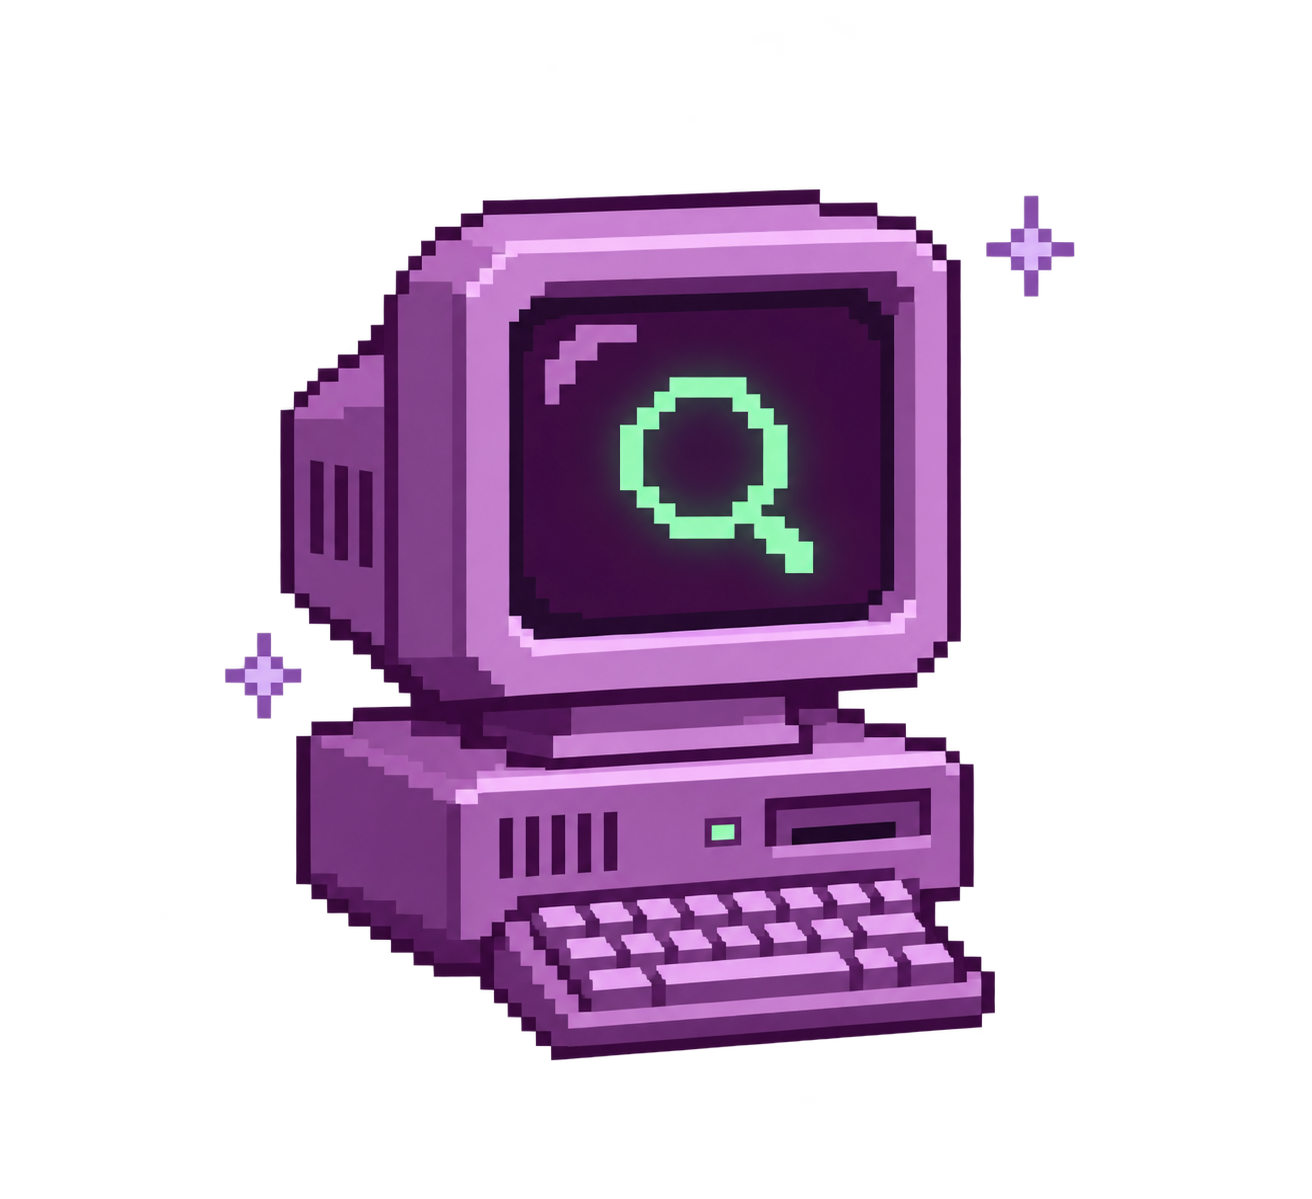
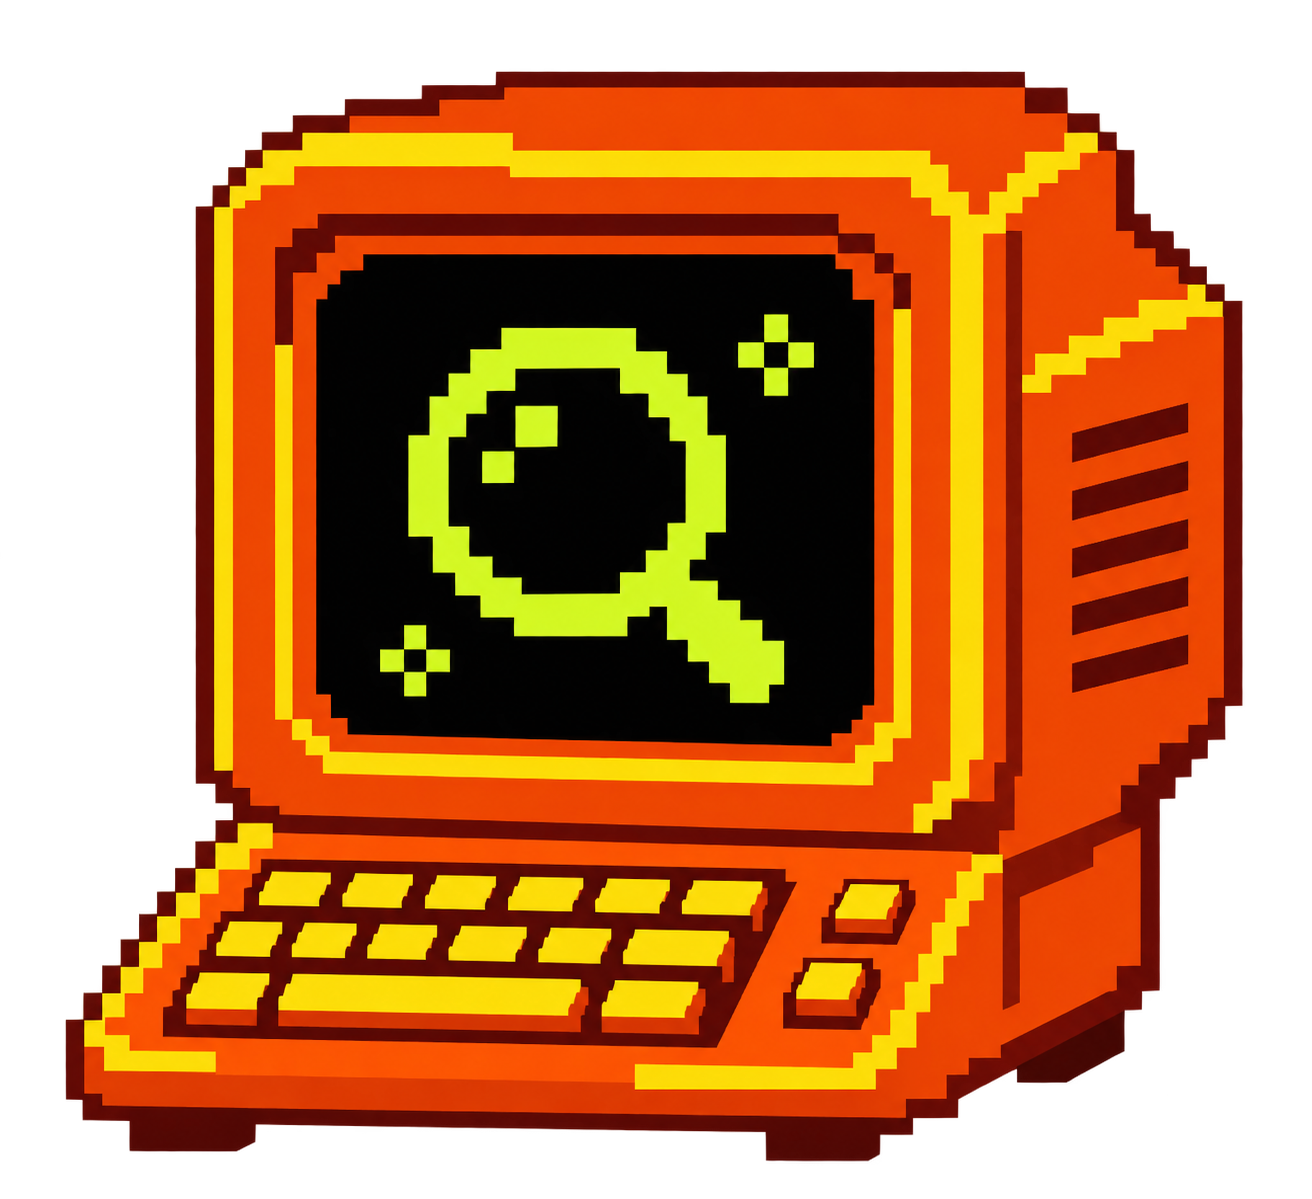
Restyle Recallio with the orange and lime arcade palette

diff --git a/public/retro.css b/public/retro.css
@@ -6,13 +6,13 @@
 
 :root {
   color-scheme: dark;
-  --background: #100d1b;
-  --surface: #181225;
-  --foreground: #f6effc;
-  --muted: #c6b8d6;
-  --line: #8464a9;
-  --violet: #c5a4ff;
-  --mint: #78f6be;
+  --background: #000000;
+  --surface: #0c0b05;
+  --foreground: #fff8e5;
+  --muted: #d7ceab;
+  --orange: #F04400;
+  --yellow: #FFD91A;
+  --lime: #D0F030;
   font: 15px/1.55 "Cascadia Mono", "Courier New", monospace;
   background: var(--background);
   color: var(--foreground);
@@ -26,78 +26,99 @@ button, select, textarea { font: inherit; }
 button, select {
   min-height: 44px;
   padding: .5rem .9rem;
-  border: 1px solid var(--violet);
+  border: 1px solid var(--yellow);
   border-radius: 0;
   background: var(--background);
   color: var(--foreground);
   cursor: pointer;
   touch-action: manipulation;
 }
-button:hover:not(:disabled), select:hover:not(:disabled) { background: #281e39; }
+button:hover:not(:disabled), select:hover:not(:disabled) { background: #211b03; }
 button:disabled, select:disabled { opacity: .58; cursor: wait; }
-:focus-visible { outline: 2px solid var(--mint); outline-offset: 4px; }
-a { color: var(--violet); text-underline-offset: 3px; }
+:focus-visible { outline: 2px solid var(--lime); outline-offset: 4px; }
+a { color: var(--yellow); text-underline-offset: 3px; }
 
 .topbar {
   display: flex;
   align-items: center;
   justify-content: space-between;
   gap: .8rem;
-  min-height: 62px;
+  min-height: 66px;
   padding: .55rem clamp(1rem, 2vw, 2rem);
-  border-bottom: 2px solid var(--violet);
+  border-bottom: 2px solid var(--yellow);
 }
-.topbar h1 { display: flex; align-items: center; gap: .8rem; font: 1.65rem/1 Workbench, monospace; }
+.topbar h1 { display: flex; align-items: center; gap: .8rem; color: var(--yellow); font: 1.85rem/1 Workbench, monospace; }
 .brand-mark {
   display: inline-grid;
   place-items: center;
   flex: none;
   width: 26px;
   height: 26px;
-  background: var(--mint);
+  background: var(--yellow);
   clip-path: polygon(42% 0,58% 0,58% 16%,74% 16%,74% 32%,90% 32%,90% 42%,100% 42%,100% 58%,90% 58%,90% 68%,74% 68%,74% 84%,58% 84%,58% 100%,42% 100%,42% 84%,26% 84%,26% 68%,10% 68%,10% 58%,0 58%,0 42%,10% 42%,10% 32%,26% 32%,26% 16%,42% 16%);
 }
 .brand-mark::after { content: ""; width: 48%; height: 48%; background: var(--background); transform: rotate(45deg); }
 .chat-controls { display: flex; gap: .7rem; min-width: 0; }
 .chat-controls select { max-width: clamp(145px, 30vw, 300px); text-overflow: ellipsis; }
 #new { white-space: nowrap; }
-#new span { color: var(--mint); }
+#new span { color: var(--lime); }
 
 main { display: flex; flex: 1; flex-direction: column; }
-.chat-space { flex: 1; display: grid; align-items: center; padding: clamp(1rem, 4vh, 3.25rem) 1rem; }
-#welcome { width: min(100%, 76rem); margin: auto; text-align: center; }
+.chat-space { flex: 1; display: grid; align-items: center; padding: clamp(1rem, 4vh, 3rem) clamp(1rem, 4vw, 4rem); }
+#welcome {
+  position: relative;
+  display: grid;
+  grid-template-columns: minmax(0, 1.3fr) minmax(0, 1fr);
+  align-items: center;
+  gap: clamp(1rem, 4vw, 4rem);
+  width: min(100%, 90rem);
+  margin: auto;
+  padding: clamp(1.5rem, 4.1vw, 4.25rem);
+  border: 2px solid var(--yellow);
+  background: var(--surface);
+}
+#welcome::before {
+  position: absolute;
+  top: -2px;
+  left: -2px;
+  width: 27px;
+  height: 27px;
+  background: var(--orange);
+  clip-path: polygon(0 0, 100% 0, 100% 33%, 66% 33%, 66% 66%, 33% 66%, 33% 100%, 0 100%);
+  content: "";
+}
+.welcome-copy { min-width: 0; }
 .art {
   position: relative;
   isolation: isolate;
   display: grid;
   place-items: center;
-  width: min(100%, 28rem);
-  height: clamp(10rem, 34vh, 20rem);
-  margin: 0 auto .5rem;
+  width: 100%;
+  aspect-ratio: 1;
 }
 .art::before {
   position: absolute;
   inset: 0;
   z-index: -1;
   content: "";
-  background-image: linear-gradient(#7951ad45 1px, transparent 1px), linear-gradient(90deg, #7951ad45 1px, transparent 1px);
-  background-size: 30px 30px;
-  mask-image: radial-gradient(ellipse, #000 40%, transparent 77%);
+  background-image: linear-gradient(#ffd91a4d 1px, transparent 1px), linear-gradient(90deg, #ffd91a4d 1px, transparent 1px);
+  background-size: 36px 36px;
+  mask-image: radial-gradient(ellipse, #000 45%, transparent 82%);
 }
-.art img { position: absolute; inset: 0; display: block; width: min(100%, 22rem); height: 100%; margin: auto; object-fit: contain; }
-#welcome h2 { color: var(--violet); font: 400 clamp(2.25rem, 5vw, 4.6rem)/1 Workbench, monospace; }
-#welcome p { margin-top: .9rem; color: var(--muted); font-size: clamp(.92rem, 1.5vw, 1.25rem); }
-.suggestions { display: flex; flex-wrap: wrap; justify-content: center; gap: clamp(.8rem, 2vw, 2rem); margin-top: clamp(1.25rem, 4vh, 2.7rem); }
-.suggestions button { min-height: 48px; padding-inline: clamp(.8rem, 2.7vw, 2.65rem); }
+.art img { position: absolute; inset: 0; display: block; width: 100%; height: 100%; object-fit: contain; }
+#welcome h2 { color: var(--yellow); font: 400 clamp(2.4rem, 5.6vw, 5.6rem)/1 Workbench, monospace; }
+#welcome p { max-width: 38ch; margin-top: 1.05rem; font-size: clamp(1rem, 1.55vw, 1.5rem); }
+.suggestions { display: grid; max-width: 37rem; gap: .75rem; margin-top: clamp(1.25rem, 4vh, 2.7rem); }
+.suggestions button { min-height: 48px; padding-inline: 1rem; text-align: left; font-size: clamp(.9rem, 1.4vw, 1.18rem); }
 
 #messages { align-self: start; width: min(100%, 56rem); margin: 0 auto; }
-#messages article { padding: 1.1rem 0; border-bottom: 1px solid #403452; }
+#messages article { padding: 1.1rem 0; border-bottom: 1px solid #413608; }
 article p { margin-bottom: .8rem; white-space: pre-wrap; overflow-wrap: anywhere; }
-article .question { border-left: 2px solid var(--mint); background: var(--surface); padding: .65rem .85rem; color: var(--mint); }
+article .question { border-left: 3px solid var(--orange); background: var(--surface); padding: .65rem .85rem; color: var(--lime); }
 article ul { padding-left: 1.4rem; overflow-wrap: anywhere; }
 .composer { position: sticky; bottom: 0; background: var(--background); padding: 0 clamp(1rem, 2vw, 2rem) clamp(.8rem, 2vh, 1.5rem); }
 #status { color: var(--muted); min-height: 1.65rem; font-size: .9rem; }
-form { display: flex; align-items: stretch; border: 2px solid var(--violet); }
+form { display: flex; align-items: stretch; border: 2px solid var(--yellow); }
 textarea {
   display: block;
   flex: 1;
@@ -112,17 +133,24 @@ textarea {
 }
 textarea::placeholder { color: var(--muted); }
 textarea:focus-visible { outline-offset: -3px; }
-form button { align-self: stretch; margin: .4rem; padding-inline: clamp(1rem, 2.5vw, 2.15rem); background: var(--mint); color: #10261c; border-color: var(--mint); font-weight: 700; }
-form button:hover:not(:disabled) { background: #b2ffdb; }
+form button { align-self: stretch; margin: .4rem; padding-inline: clamp(1rem, 2.5vw, 2.15rem); background: var(--lime); color: var(--background); border-color: var(--lime); font-weight: 700; }
+form button:hover:not(:disabled) { background: #e5ff72; }
 .visually-hidden { position: absolute; width: 1px; height: 1px; overflow: hidden; clip-path: inset(50%); white-space: nowrap; }
+
+@media (max-width: 760px) {
+  #welcome { grid-template-columns: 1fr; gap: .75rem; }
+  .art { order: -1; width: min(100%, 13rem); margin: 0 auto; }
+  #welcome h2 { font-size: clamp(2.3rem, 8vw, 4rem); }
+  .suggestions { max-width: none; gap: .55rem; margin-top: 1rem; }
+  .suggestions button { min-height: 44px; }
+}
 
 @media (max-width: 550px) {
   .topbar { flex-wrap: wrap; }
   .topbar h1 { font-size: 1.4rem; }
   .chat-controls { flex: 1 1 100%; }
   .chat-controls select { max-width: none; flex: 1; width: 0; }
-  .suggestions { display: grid; width: min(100%, 21rem); margin-inline: auto; gap: .55rem; }
-  .suggestions button { min-height: 44px; }
-  .art { height: clamp(8rem, 27vh, 13rem); }
+  #welcome { padding: 1rem; }
+  .art { width: min(100%, 10rem); }
   textarea { padding-inline: .6rem; }
 }

diff --git a/public/index.html b/public/index.html
@@ -18,14 +18,16 @@
   <main>
     <div class="chat-space">
       <section id="welcome" aria-labelledby="welcome-title">
-        <div class="art"><img src="/terminal.png" width="280" height="280" alt=""></div>
-        <h2 id="welcome-title">What changed?</h2>
-        <p>Pick up an earlier conversation and check what’s changed on the web.</p>
-        <div class="suggestions" aria-label="Suggested questions">
-          <button type="button" data-prompt="Has pricing changed for any of the products we discussed?">Check pricing changes</button>
-          <button type="button" data-prompt="What did we discuss in my previous chat, and is your answer still correct today?">Verify an earlier answer</button>
-          <button type="button" data-prompt="Has any vendor on our shortlist changed pricing or shipped a major release?">Review a vendor shortlist</button>
+        <div class="welcome-copy">
+          <h2 id="welcome-title">What changed?</h2>
+          <p>Pick up an earlier conversation and check what’s changed on the web.</p>
+          <div class="suggestions" aria-label="Suggested questions">
+            <button type="button" data-prompt="Has pricing changed for any of the products we discussed?">Check pricing changes</button>
+            <button type="button" data-prompt="What did we discuss in my previous chat, and is your answer still correct today?">Verify an earlier answer</button>
+            <button type="button" data-prompt="Has any vendor on our shortlist changed pricing or shipped a major release?">Review a vendor shortlist</button>
+          </div>
         </div>
+        <div class="art"><img src="/terminal.png" width="440" height="440" alt=""></div>
       </section>
       <section id="messages" aria-label="Messages" aria-live="polite" hidden></section>
     </div>

diff --git a/README.md b/README.md
@@ -91,6 +91,8 @@ Open [a test JSON search](http://127.0.0.1:43193/search?q=Supabase+pricing&forma
 
 ## Check conversation recall
 
+To test the UI, select **Check pricing changes** on a new chat and verify that it fills the composer. Edit the text or clear it before following the steps below. After sending a message, check that the reply, any vendor statuses, and any source links are readable. Use **New chat** and the **Conversation** menu to switch between a new and saved chat. On a narrow window, check that the composer and Send button remain usable.
+
 1. Ask “Compare the entry-level Postgres hosting plans from Neon and Supabase for a small app.”
 2. Restart Recallio, choose **New chat**, and ask “What did we conclude about Postgres hosting, and has any pricing changed since?”
 3. Check that the answer recalls the earlier comparison, links to evidence, and calls out any missing historical baseline.
